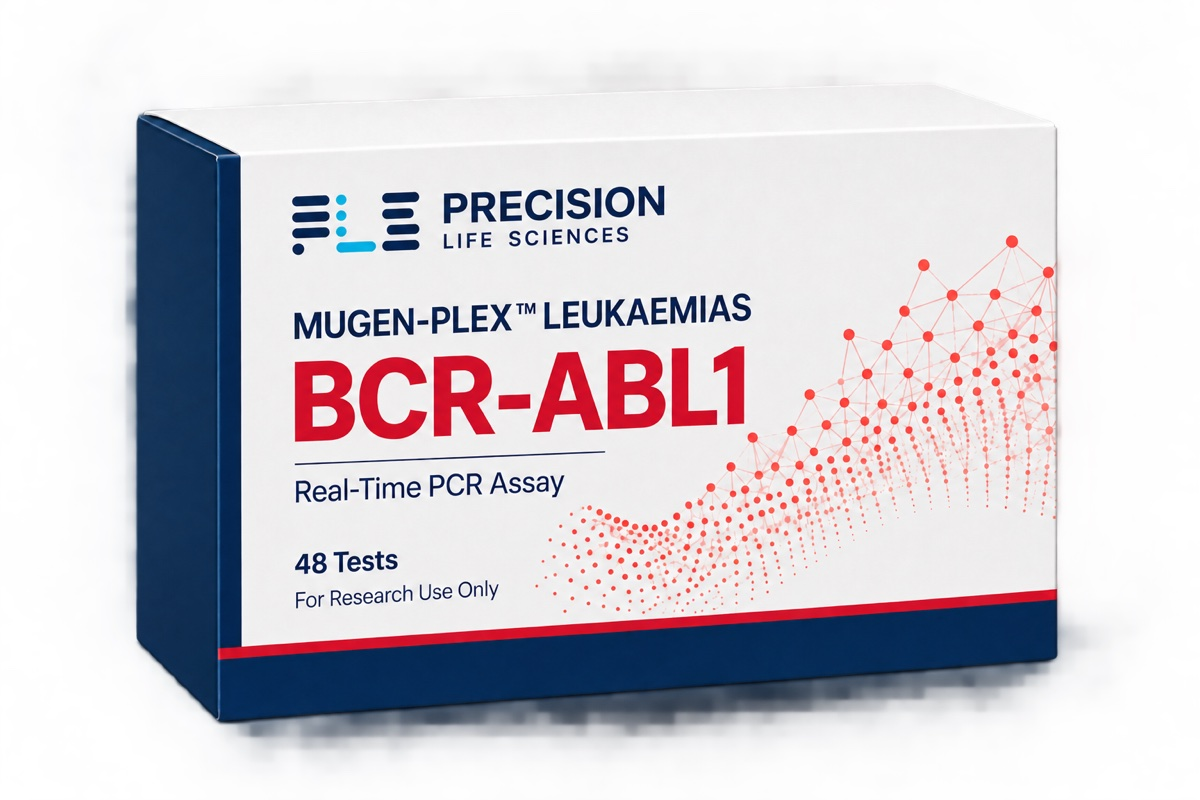
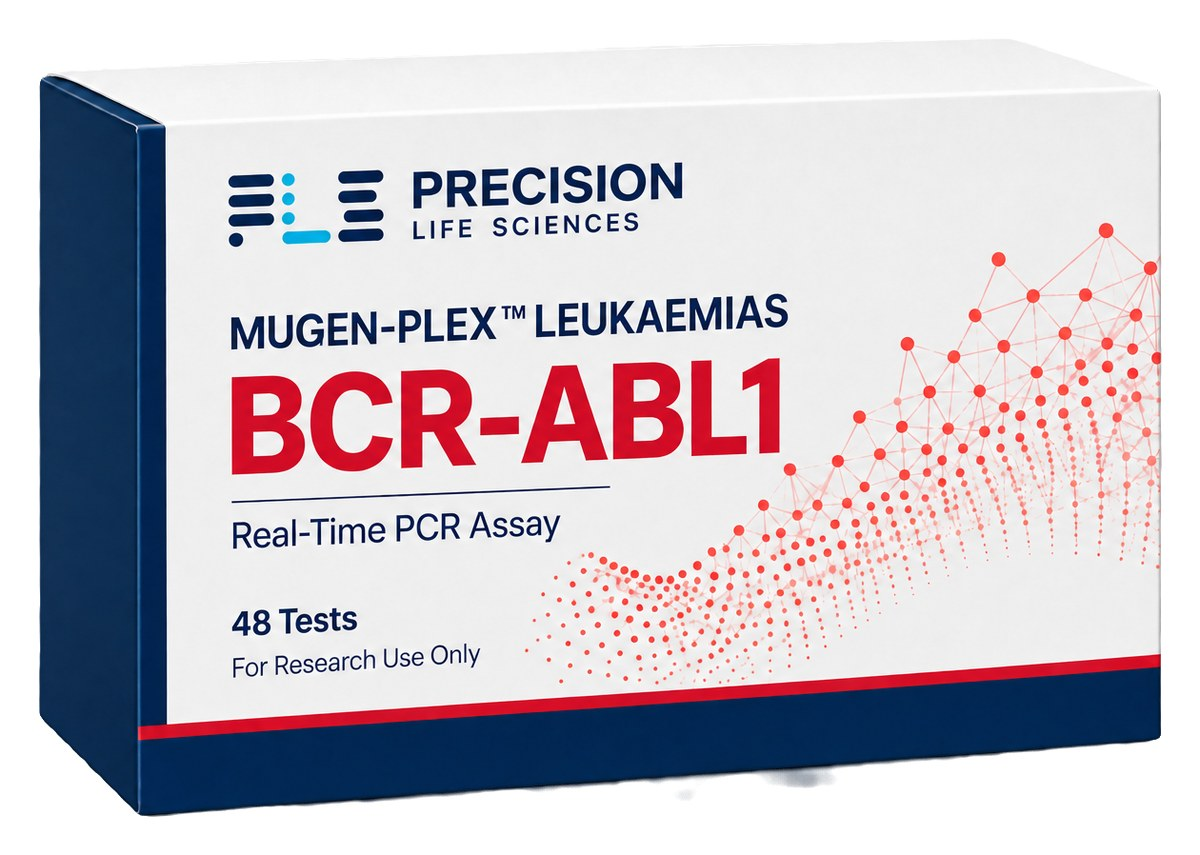
Clean the Leukaemias renders: remove shadow fringe, even tile frames

diff --git a/src/components/LeukaemiaRange.js b/src/components/LeukaemiaRange.js
@@ -42,14 +42,15 @@ export default function LeukaemiaRange() {
               transition={{ duration: 0.6, delay: (i % 3) * 0.12, ease: 'easeOut' }}
               className="bg-white/[0.04] border border-white/10 rounded-2xl overflow-hidden hover:border-white/25 transition-colors"
             >
-              <Image
-                src={`/images/leukaemias/Mugen-Plex_Leukaemias_${k.slug}.jpg`}
-                alt={`Mugen-Plex Leukaemias ${k.title} 48-test real-time PCR assay kit by Precision Life Sciences.`}
-                width={1200}
-                height={800}
-                sizes="(max-width: 640px) 100vw, (max-width: 1024px) 50vw, 384px"
-                className="w-full h-auto"
-              />
+              <div className="relative bg-white aspect-[3/2]">
+                <Image
+                  src={`/images/leukaemias/Mugen-Plex_Leukaemias_${k.slug}.jpg`}
+                  alt={`Mugen-Plex Leukaemias ${k.title} 48-test real-time PCR assay kit by Precision Life Sciences.`}
+                  fill
+                  sizes="(max-width: 640px) 100vw, (max-width: 1024px) 50vw, 384px"
+                  className="object-contain p-5"
+                />
+              </div>
               <div className="p-5">
                 <div className="flex items-center gap-2 mb-1">
                   <span className="w-2.5 h-2.5 rounded-full" style={{ backgroundColor: k.color }} />
